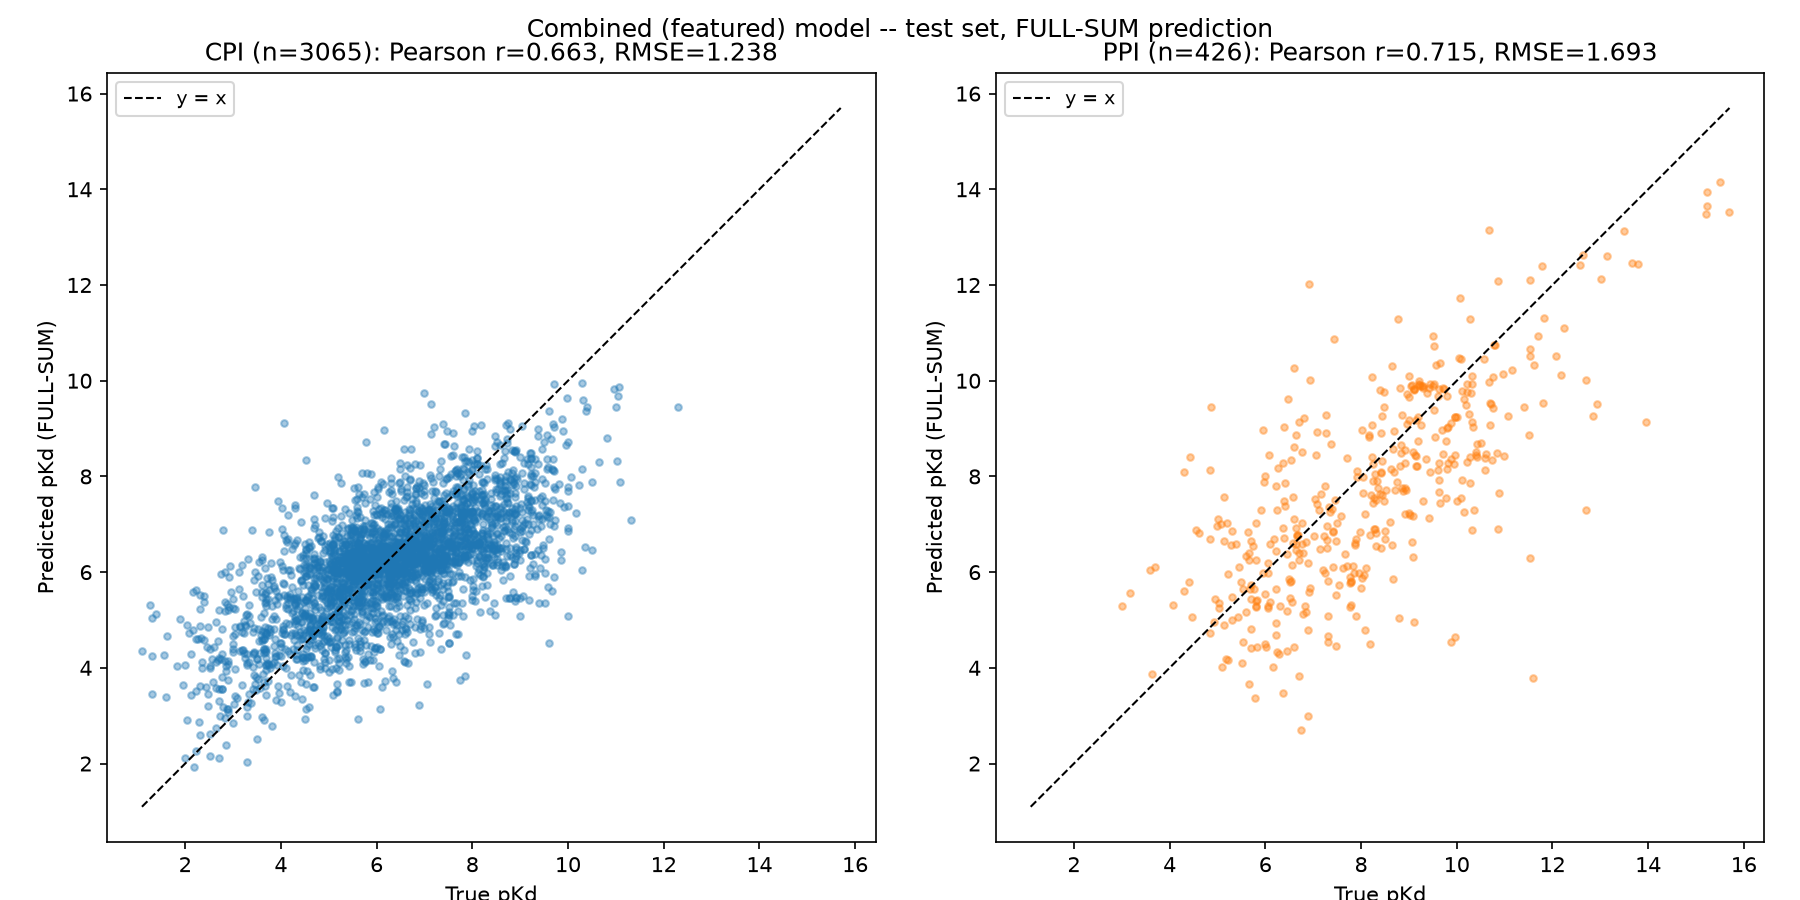
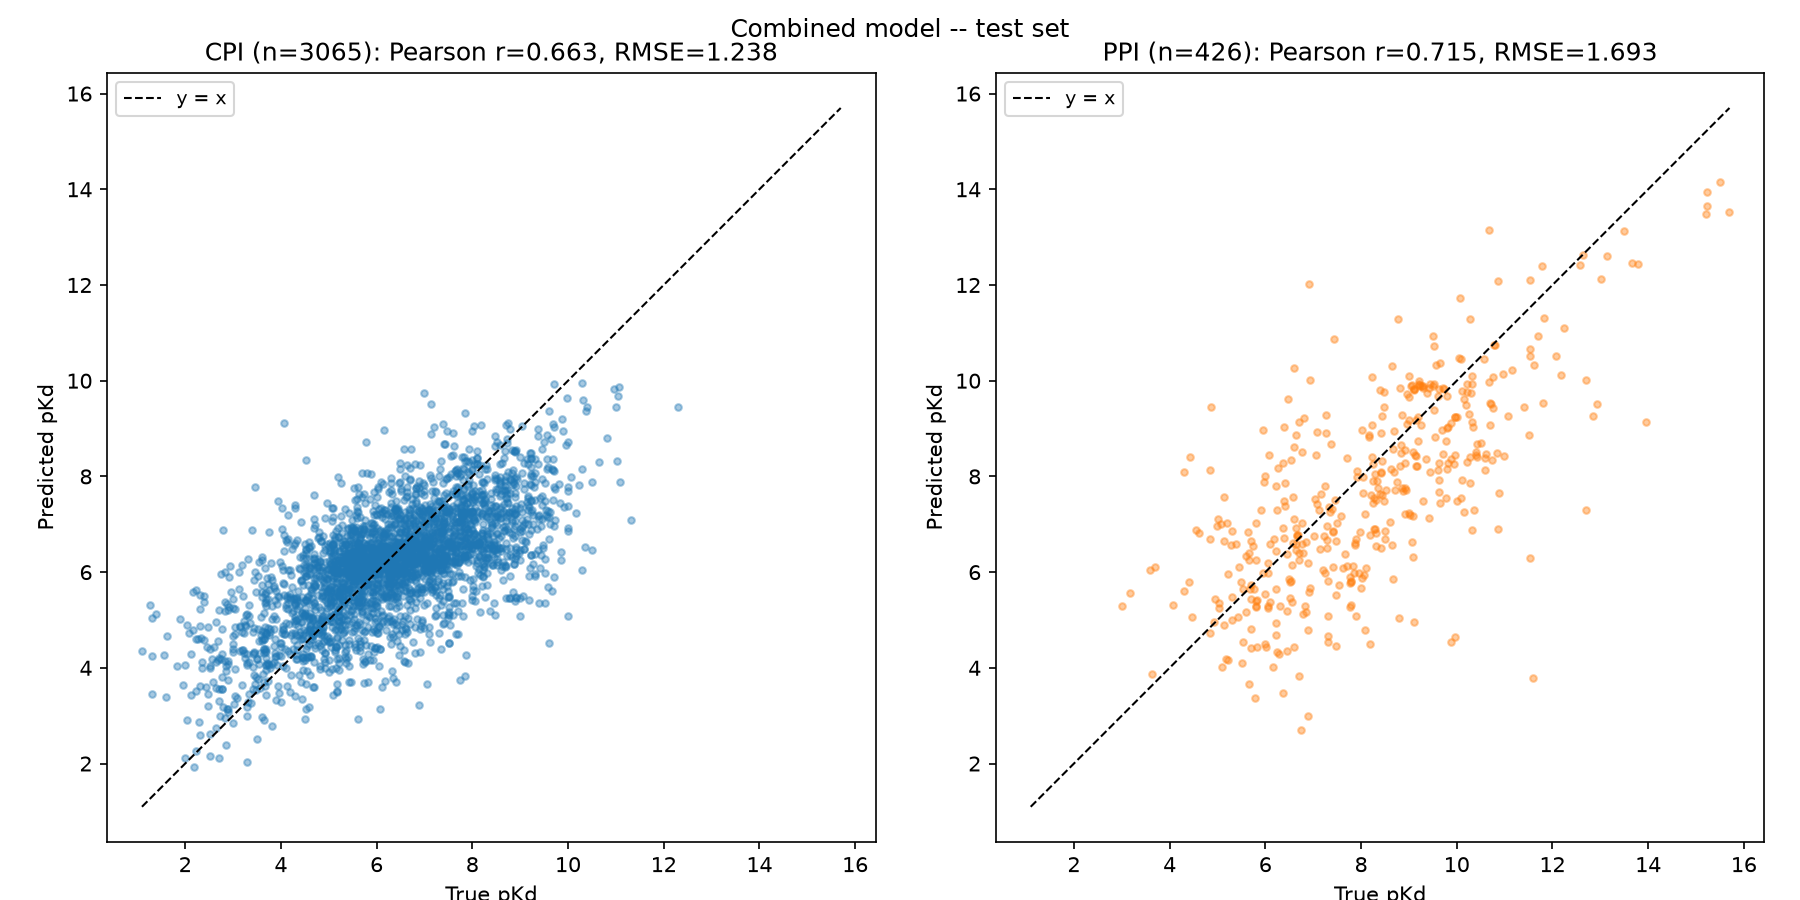
Remove "featured model" and "FULL-SUM" jargon from plot labels/titles and docs
"Featured model" wasn't a meaningful term outside this project's internal
research context -- replaced with "combined model" throughout (the model
trained on combined CPI+PPI data, as opposed to the CPI-only/PPI-only
ablations). Also drops "(FULL-SUM prediction)" from the test-scatter plot's
axis label/title, since the CONTACT-SUM variant isn't shown anywhere in
this repo's plots and the distinction isn't meaningful to a reader without
that context.

Changed region(s): [[0.3111, 0.0, 0.6844, 0.0622], [0.4978, 0.3733, 0.5289, 0.6533], [0.0, 0.3733, 0.0311, 0.6533]]

diff --git a/scripts/plot_hoshino_cpi_ppi_comparison.py b/scripts/plot_hoshino_cpi_ppi_comparison.py
@@ -2,8 +2,8 @@
 Bar plot comparing the Hoshino_polymer external-validation correlation
 (vs. Figure S24 bottom panel, 0.1 mM neutralization ratio, n=15) across
 three models trained on the same split_pure_random_uniqueonly data (same
-encoder/architecture): CPI-only, PPI-only, and this repo's featured
-CPI+PPI combined (balanced) model. Both Pearson r and Spearman rho are
+encoder/architecture): CPI-only, PPI-only, and this repo's combined
+CPI+PPI (balanced) model. Both Pearson r and Spearman rho are
 shown, grouped side by side per metric, with all three models' bars
 adjacent within each group. Combined is solid black; CPI-only/PPI-only use
 hatch patterns (dots / diagonal lines) instead of color so the figure reads
@@ -64,7 +64,7 @@ def load_pred(csv_path, pred_col="predicted_pKd"):
     return r, p_r, rho, p_rho
 
 
-models = ["CPI-only", "PPI-only", "Combined\n(featured model)"]
+models = ["CPI-only", "PPI-only", "Combined"]
 csvs = [CPI_ONLY_CSV, PPI_ONLY_CSV, COMBINED_CSV]
 hatches = [".", "/", None]  # dots / diagonal lines / solid
 facecolors = ["white", "white", "black"]

diff --git a/scripts/plot_test_scatter.py b/scripts/plot_test_scatter.py
@@ -1,5 +1,5 @@
 """
-Predicted vs. true pKd for the combined (featured, balanced) model's test
+Predicted vs. true pKd for the combined model's test
 split, as two SEPARATE panels -- one for CPI rows, one for PPI rows -- each
 with its own y=x reference line and Pearson r / RMSE. Uses only the
 FULL-SUM prediction (no contact restriction). Reuses the frozen-encoder
@@ -88,12 +88,12 @@ for ax, mask, name, color in [
     ax.scatter(yt, yp, s=10, alpha=0.4, color=color)
     ax.plot([lo, hi], [lo, hi], "k--", linewidth=1, label="y = x")
     ax.set_xlabel("True pKd")
-    ax.set_ylabel("Predicted pKd (FULL-SUM)")
+    ax.set_ylabel("Predicted pKd")
     ax.set_title(f"{name} (n={mask.sum()}): Pearson r={r_sub:.3f}, RMSE={rmse_sub:.3f}")
     ax.legend(loc="upper left", fontsize=9)
     ax.set_aspect("equal", adjustable="box")
 
-fig.suptitle("Combined (featured) model -- test set, FULL-SUM prediction")
+fig.suptitle("Combined model -- test set")
 fig.tight_layout()
 fig.savefig(OUT_PNG, dpi=150)
 print(f"Saved scatter plot to {OUT_PNG}")

diff --git a/scripts/plot_hoshino_figures.py b/scripts/plot_hoshino_figures.py
@@ -4,7 +4,7 @@ Two side-by-side bar plot panels (same figure), sharing the same x-axis
   1. The Figure S24 hemolysis neutralization ratio -- BOTTOM panel (ligand
      concentration 0.1 mM), pixel-extracted from the source PDF
      (bar-color pixel detection + y-axis box-border calibration).
-  2. This repo's featured model's predicted pKd (results/predicted_pKa_
+  2. This repo's combined model's predicted pKd (results/predicted_pKa_
      KanM_balanced.csv).
 
 Each panel uses its own natural y-scale (percent vs. pKd units) -- blue
@@ -58,7 +58,7 @@ ax1.set_title("Figure S24 (bottom histogram, 0.1 mM) reproduction")
 ax1.tick_params(axis="x", rotation=45)
 
 ax2.bar(LABEL_ORDER, pred_values, color=colors)
-ax2.set_ylabel("Predicted pKd (featured model)")
+ax2.set_ylabel("Predicted pKd (combined model)")
 ax2.set_ylim(*padded_range(pred_values))
 ax2.set_title("Predicted pKd, same samples/order")
 ax2.tick_params(axis="x", rotation=45)

diff --git a/scripts/plot_hoshino_scatter.py b/scripts/plot_hoshino_scatter.py
@@ -1,5 +1,5 @@
 """
-Scatter plot of the featured model's predicted pKd vs. the Figure S24
+Scatter plot of the combined model's predicted pKd vs. the Figure S24
 bottom panel (ligand concentration 0.1 mM) neutralization ratio, for the 15
 Hoshino_polymer pairs with a matching Figure S24 value. Annotated with the
 permutation-test Pearson r and Spearman rho (see predict_hoshino.py) --
@@ -72,7 +72,7 @@ ax.legend(fontsize=8, loc="upper left")
 for _, row in sub.iterrows():
     ax.annotate(row["label"], (row[PRED_COL], row["neutralization"]),
                textcoords="offset points", xytext=(5, 3), fontsize=8)
-ax.set_xlabel("Predicted pKd (featured model)")
+ax.set_xlabel("Predicted pKd (combined model)")
 ax.set_ylabel("Neutralization Ratio (%) -- Figure S24 bottom panel (0.1 mM)")
 ax.set_title(f"n=15: Pearson r={r:.3f} (p={p:.4f}), Spearman rho={rho:.3f} (p={p_rho:.4f})", fontsize=11)
 fig.subplots_adjust(top=0.90)

diff --git a/scripts/trim_split_to_used_rows.py b/scripts/trim_split_to_used_rows.py
@@ -2,7 +2,7 @@
 Trims the FULL split_pure_random_uniqueonly_{train,val,test}.csv (the direct
 output of make_pure_random_split_uniqueonly.py, which still contains
 non-CPI/PPI-origin rows and multi-chain rows) down to exactly the rows
-actually used for training/evaluation by this repo's featured model:
+actually used for training/evaluation by this repo's combined model:
 single-chain, CPI/PPI-origin rows with a real (non-null) pKd.
 
 This is the exact eligibility filter used throughout this repo's training/

diff --git a/scripts/predict_hoshino.py b/scripts/predict_hoshino.py
@@ -1,5 +1,5 @@
 """
-Applies the featured model (train_balanced.py's checkpoint, outputs/
+Applies the combined model (train_balanced.py's checkpoint, outputs/
 mlp_balanced.pt) to the external, out-of-domain Hoshino_polymer
 polymer-peptide dataset (INPUT_CSV, not included in this repo -- see
 README), using the FULL-SUM prediction (Transformer-residual + per-token-MLP

diff --git a/README.md b/README.md
@@ -119,7 +119,7 @@ PPI-only model:
 domain. Run out-of-domain on CPI, it's weak (r ≈ 0.12-0.15) though not
 quite as degenerate as CPI-only's transfer to PPI.*
 
-Compared to the combined (featured) model's own CPI/PPI columns above (val
+Compared to the combined model's own CPI/PPI columns above (val
 0.648/0.651, test 0.663/0.715), each single-domain model roughly matches
 the combined model **within its own domain**, but transfers only weakly to
 the other domain — consistent with the earlier XGBoost-based version of
@@ -173,7 +173,7 @@ python scripts/extract_base_features.py                  # frozen-encoder featur
 python scripts/extract_contact_masks.py                   # contact-token masks aligned to that cache -> outputs/contact_masks_for_full_tokens.pt
 python scripts/extract_ppi_contact_splice_augmented.py    # PPI rows w/ contact data -> outputs/features_ppi_contact_splice_augmented_cache.pt
 python scripts/extract_ppi_random_splice_augmented_nocontact.py  # PPI rows w/o contact data -> outputs/features_ppi_random_splice_augmented_nocontact_cache.pt
-python scripts/train_balanced.py                          # featured model -> outputs/mlp_balanced.pt, results/metrics.json
+python scripts/train_balanced.py                          # combined model -> outputs/mlp_balanced.pt, results/metrics.json
 python scripts/plot_test_scatter.py                        # results/test_scatter.png (CPI/PPI test scatter, FULL-SUM only)
 python scripts/train_cpi_only.py                          # ablation -> outputs/mlp_cpi_only.pt
 python scripts/train_ppi_only.py                          # ablation -> outputs/mlp_ppi_only.pt
